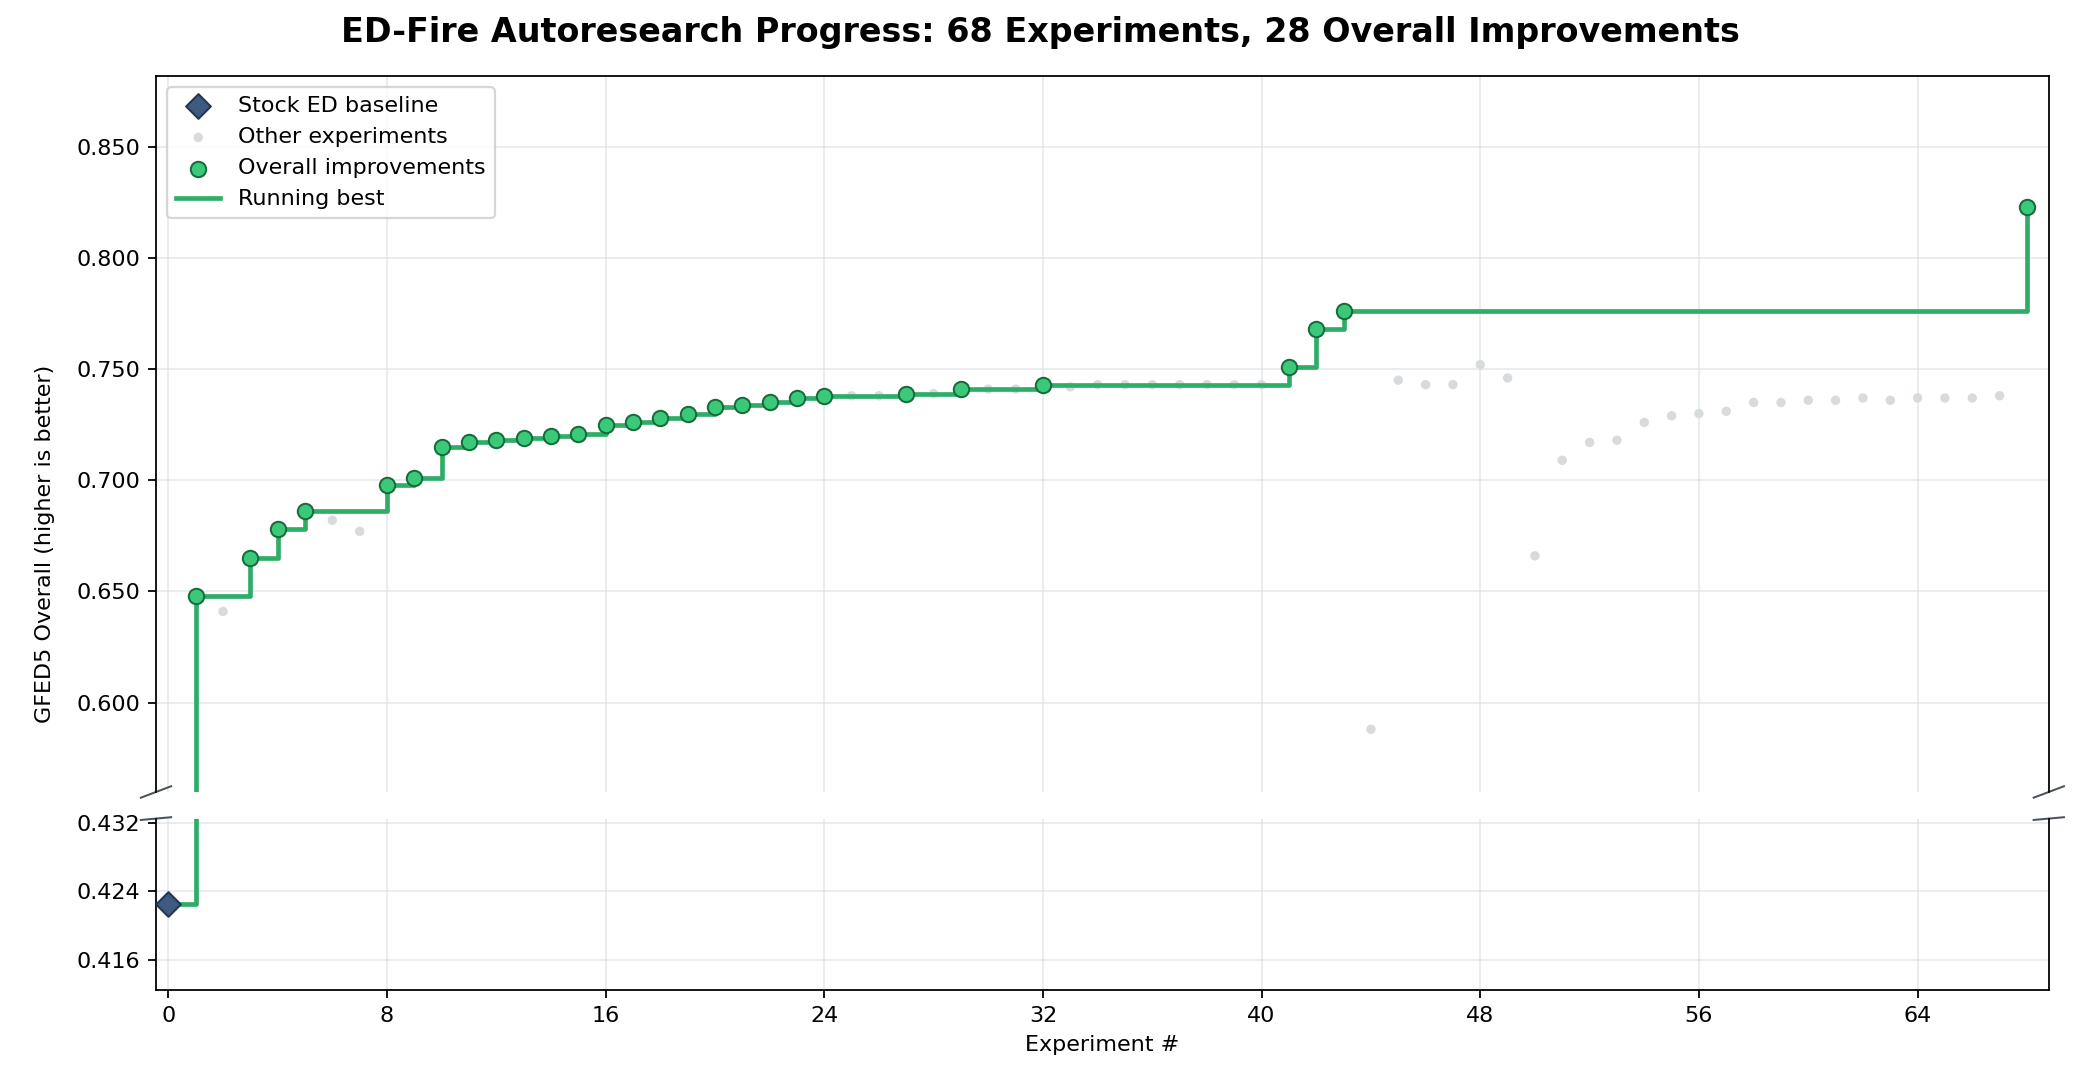
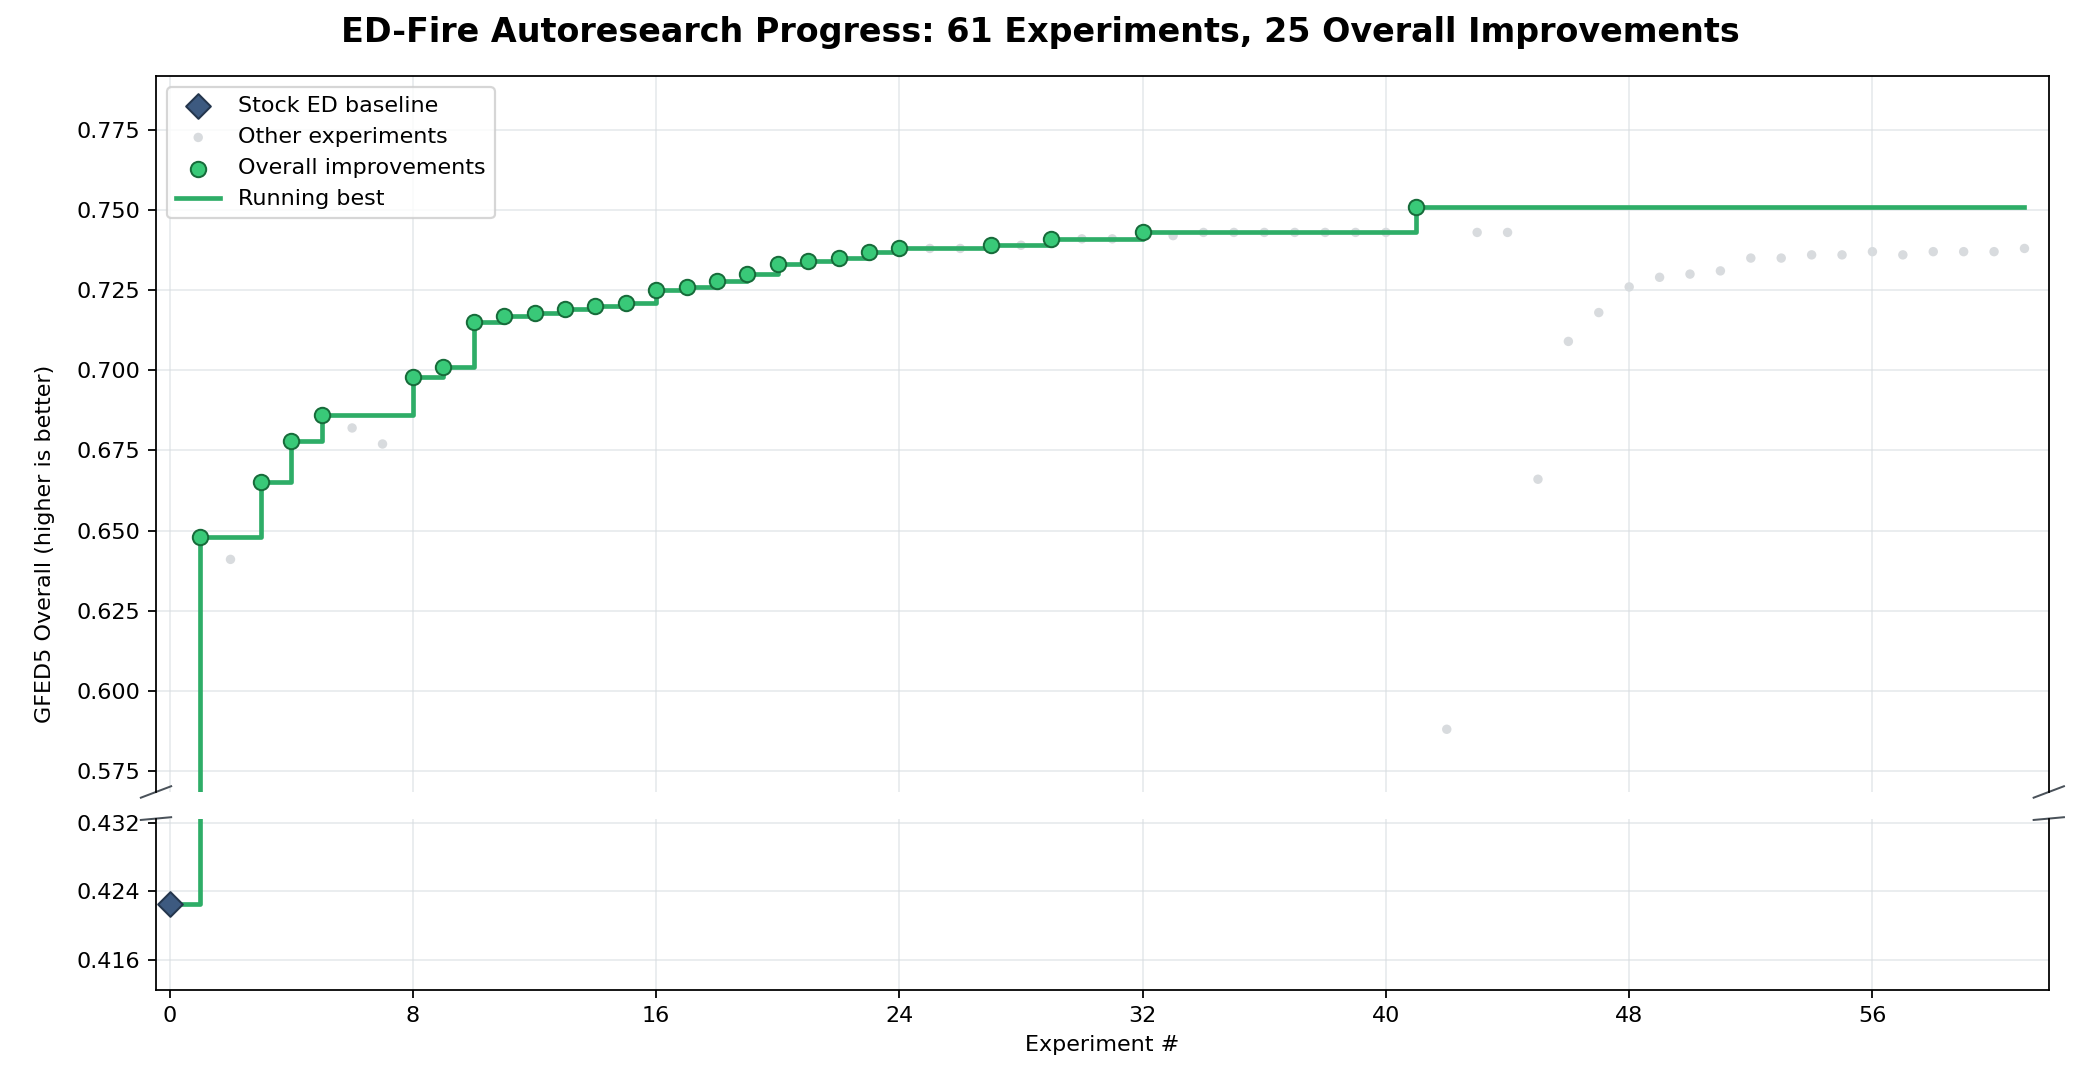
Remove diagnostic evaluations from official progress

diff --git a/autoresearch/scratchpad/thread.md b/autoresearch/scratchpad/thread.md
@@ -4007,3 +4007,14 @@ one, is still committed and restored explicitly if rejected. Official evaluation
 run only on those mechanistic commits so `results.tsv` and `progress.png` represent
 actual ED-fire candidates. The next step is to compress the GAM's repeated patterns
 into globally shared fuel, curing, ignition, management, and fire-return equations.
+
+
+### Entry 111: diagnostic evaluations removed from the official ledger
+
+Seven rows produced by explicit GAM or ML checkpoints were removed from
+`results.tsv`: `a26cdc3`, `cffd5af`, `244eff2`, `930591d`, `469b5e3`,
+`ae4973a`, and `20661b5`. Their commits remain recoverable as diagnostic history,
+but they no longer affect the official running-best graph. `progress.png` was
+regenerated from 61 retained evaluations. The latest eligible coupled-valid
+mechanistic evaluation is **.738** at `d540d4c`; no new official evaluation was
+run during this repair.
